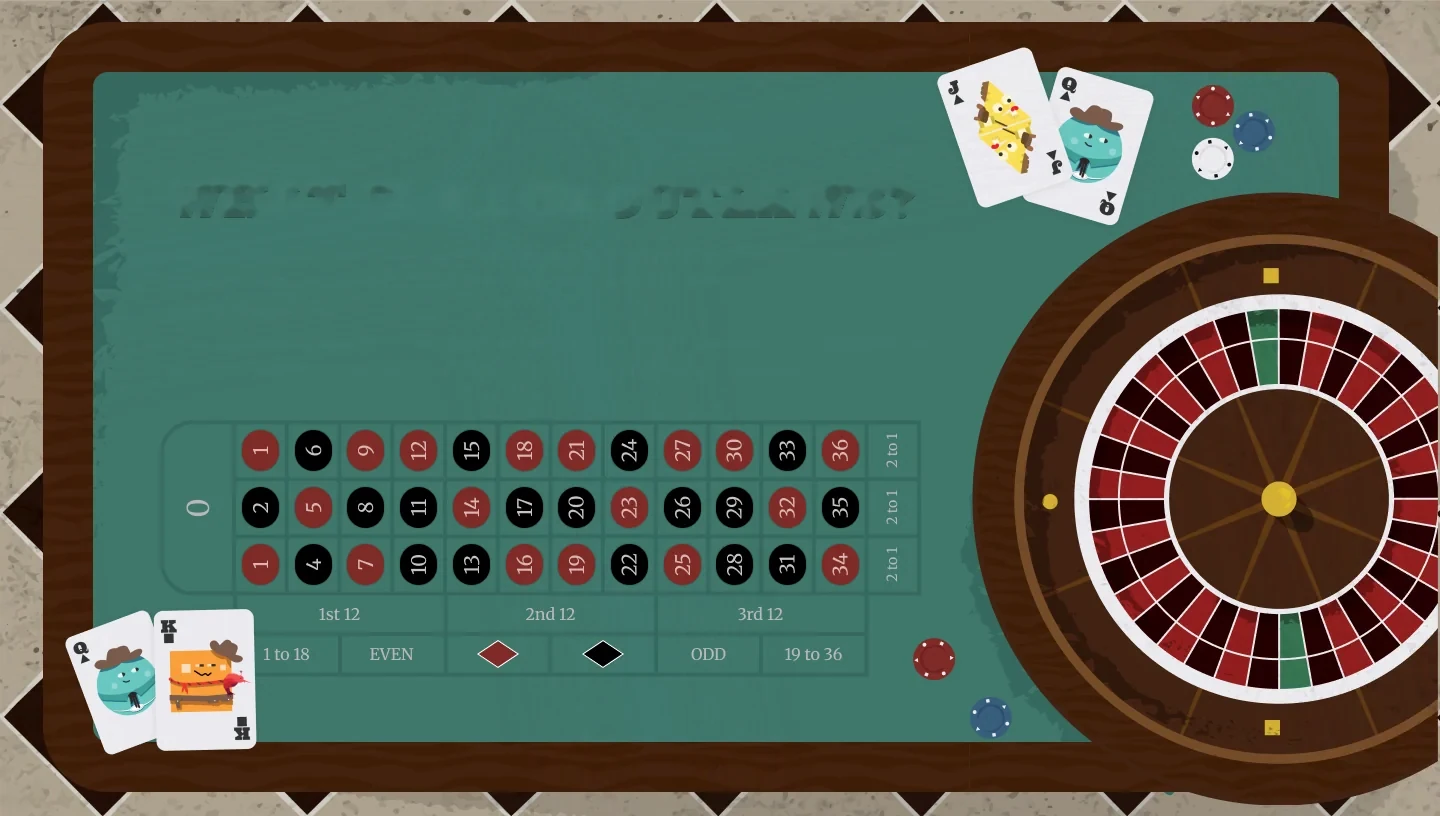
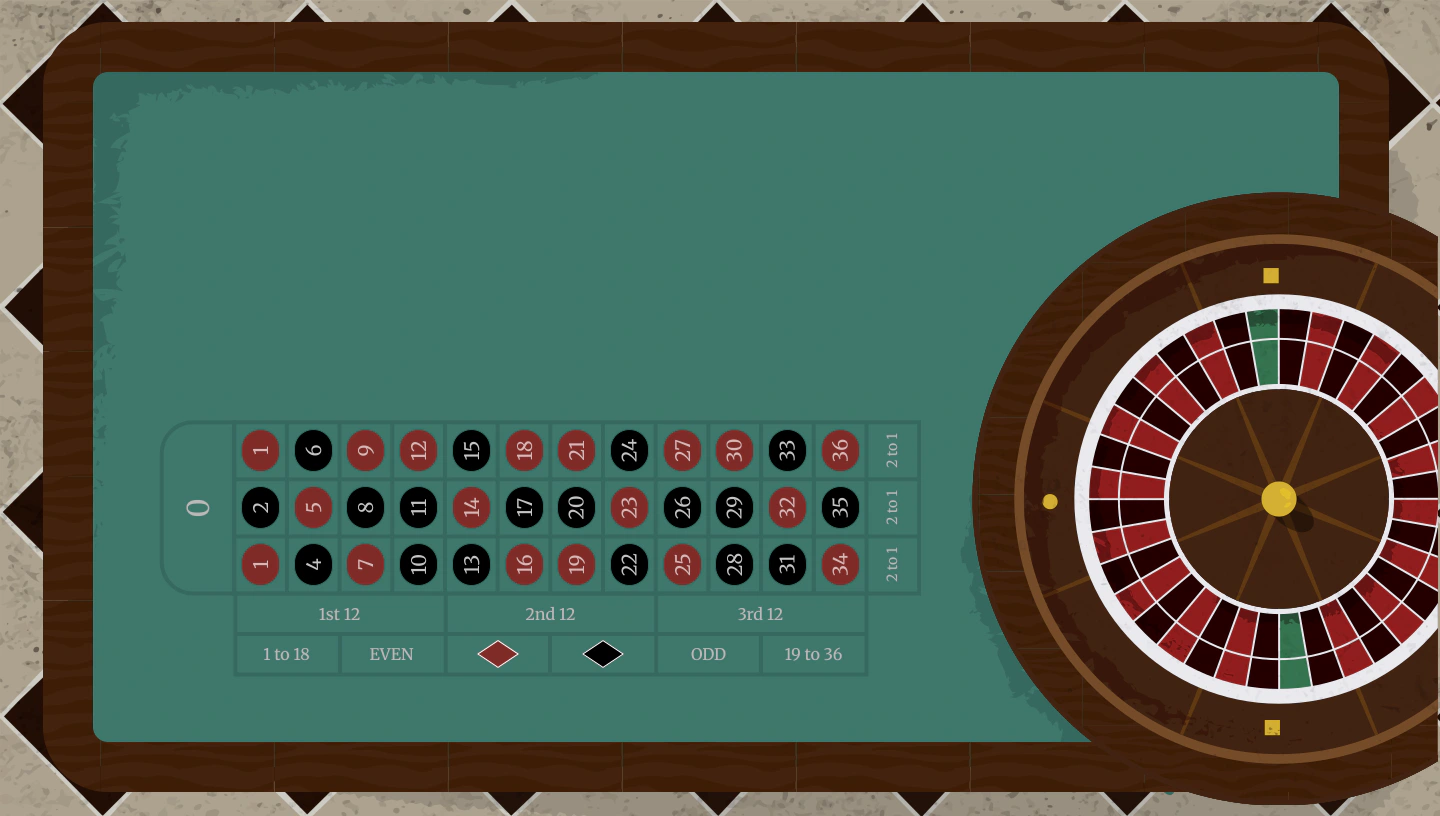
Sharpen HackOutlaws roulette artwork on desktop and mobile

diff --git a/components/Frontier/SceneArt.tsx b/components/Frontier/SceneArt.tsx
@@ -4,15 +4,38 @@ type SceneArtProps = {
     src: string;
     width?: number;
     height: number;
-    phone?: { src: string; width: number; height: number; small?: number };
+    largeWidth?: number;
+    phone?: {
+        src: string;
+        width: number;
+        height: number;
+        small?: number;
+        largeWidth?: number;
+    };
     priority?: boolean;
     alt?: string;
 };
+
+function sceneSources(
+    src: string,
+    width: number,
+    small?: number,
+    large?: number
+) {
+    return [
+        small && `${src}-small.webp ${small}w`,
+        `${src}.webp ${width}w`,
+        large && `${src}-large.webp ${large}w`
+    ]
+        .filter(Boolean)
+        .join(", ");
+}
 
 export default function SceneArt({
     src,
     width = 1440,
     height,
+    largeWidth,
     phone,
     priority = false,
     alt = ""
@@ -24,11 +47,12 @@ export default function SceneArt({
                     media="(max-width: 850px)"
                     width={phone.width}
                     height={phone.height}
-                    srcSet={
-                        phone.small
-                            ? `${phone.src}-small.webp ${phone.small}w, ${phone.src}.webp ${phone.width}w`
-                            : `${phone.src}.webp`
-                    }
+                    srcSet={sceneSources(
+                        phone.src,
+                        phone.width,
+                        phone.small,
+                        phone.largeWidth
+                    )}
                     sizes="100vw"
                 />
             )}
@@ -36,7 +60,7 @@ export default function SceneArt({
             {/* eslint-disable-next-line @next/next/no-img-element */}
             <img
                 src={`${src}.webp`}
-                srcSet={`${src}-small.webp 780w, ${src}.webp ${width}w`}
+                srcSet={sceneSources(src, width, 780, largeWidth)}
                 sizes="100vw"
                 width={width}
                 height={height}

diff --git a/app/challenge/components/TableProps.tsx b/app/challenge/components/TableProps.tsx
@@ -54,13 +54,7 @@ const scenes = {
     roulette: {
         width: 1440,
         height: 816,
-        patches: [
-            { src: "r-cards-t", box: [929, 39, 233, 194] },
-            { src: "r-cards-bl", box: [57, 601, 208, 162] },
-            { src: "r-chips-t", box: [1183, 76, 98, 112] },
-            { src: "r-chips-b1", box: [904, 629, 60, 60] },
-            { src: "r-chips-b2", box: [963, 689, 56, 58] }
-        ],
+        patches: [],
         props: [
             card("r-cards-t", [935, 45, 221, 182], [160, -190, 20]),
             card("r-cards-bl", [63, 607, 196, 150], [-190, 160, -18]),
@@ -88,17 +82,11 @@ const scenes = {
             chip("ep-chips-b", [239, 556, 68, 44])
         ]
     },
-    // The phone roulette artwork has plain placeholder shapes where the cards
-    // and chips go. Felt covers them, and the desktop sprites sit a little to
-    // the right so they clear the copy.
     "roulette-phone": {
         width: 402,
         height: 370,
         phone: true,
-        patches: [
-            { src: "rp-cards", box: [228, 49, 104, 85] },
-            { src: "rp-chips", box: [333, 79, 45, 79] }
-        ],
+        patches: [],
         props: [
             card("r-cards-t", [256, 56, 84, 69.2], [70, -60, 20]),
             chip("chip-red", [348, 80, 18, 18]),

diff --git a/app/challenge/page.tsx b/app/challenge/page.tsx
@@ -101,7 +101,17 @@ export default function ProTrackLanding() {
                     </Link>
                 </section>
                 <section className={styles.roulette} id="about-outlaws">
-                    <SaloonArt name="roulette" height={816} phoneHeight={370} />
+                    <SceneArt
+                        src="/challenge/saloon/roulette"
+                        height={816}
+                        largeWidth={2880}
+                        phone={{
+                            src: "/challenge/saloon/roulette-phone",
+                            width: 402,
+                            height: 370,
+                            largeWidth: 1206
+                        }}
+                    />
                     <TableProps scene="roulette" play="view" />
                     <TableProps scene="roulette-phone" play="view" />
                     <RouletteWheel />
